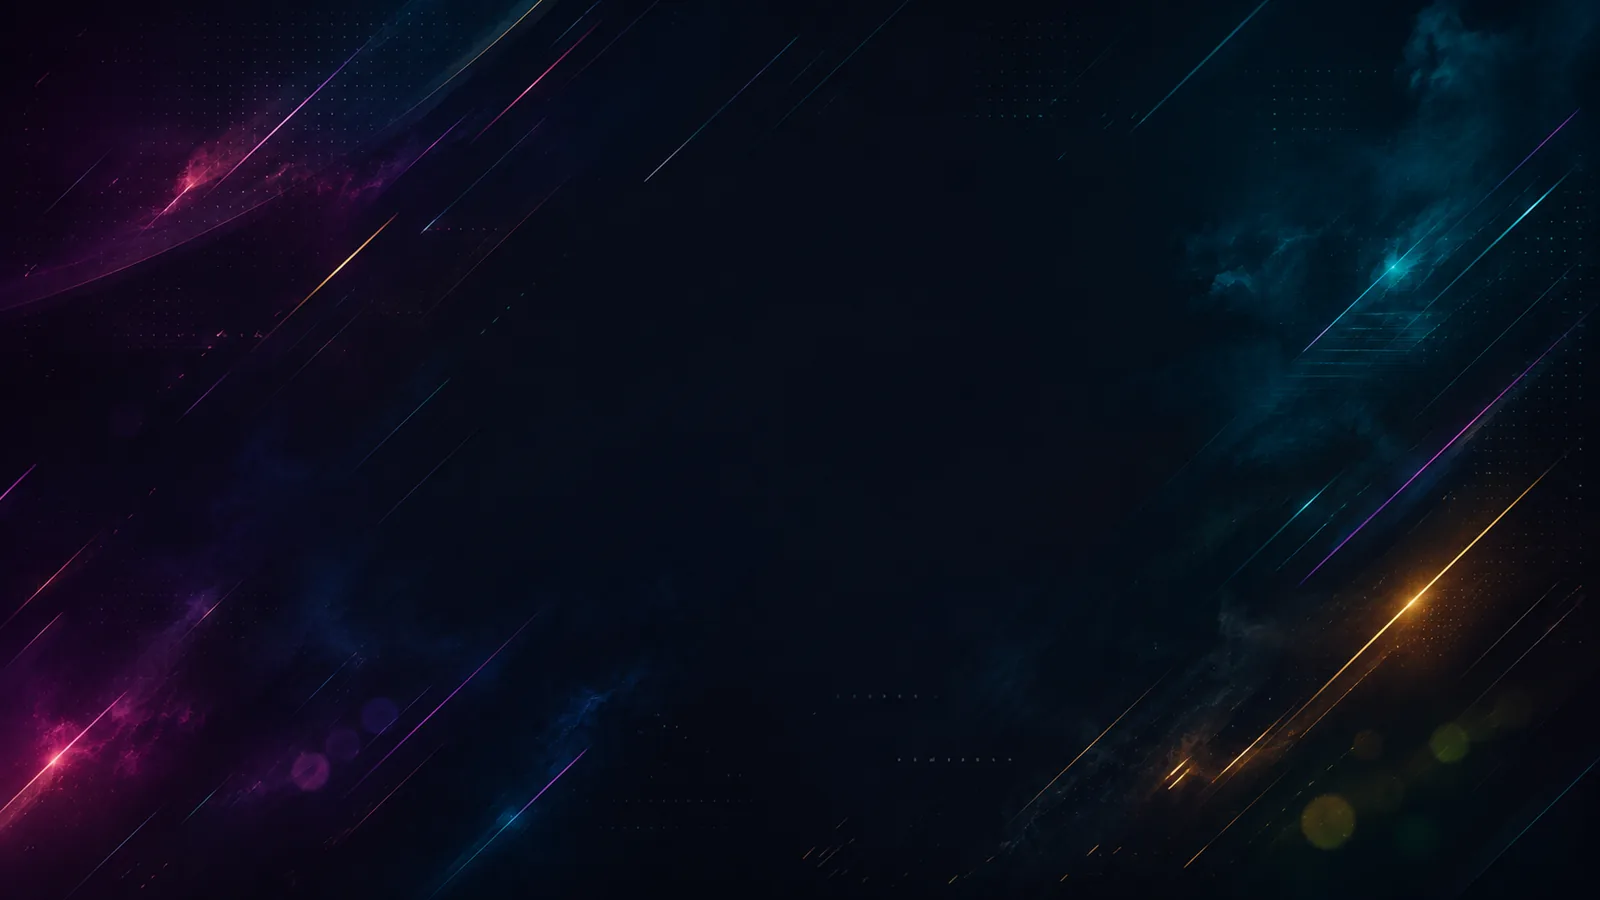
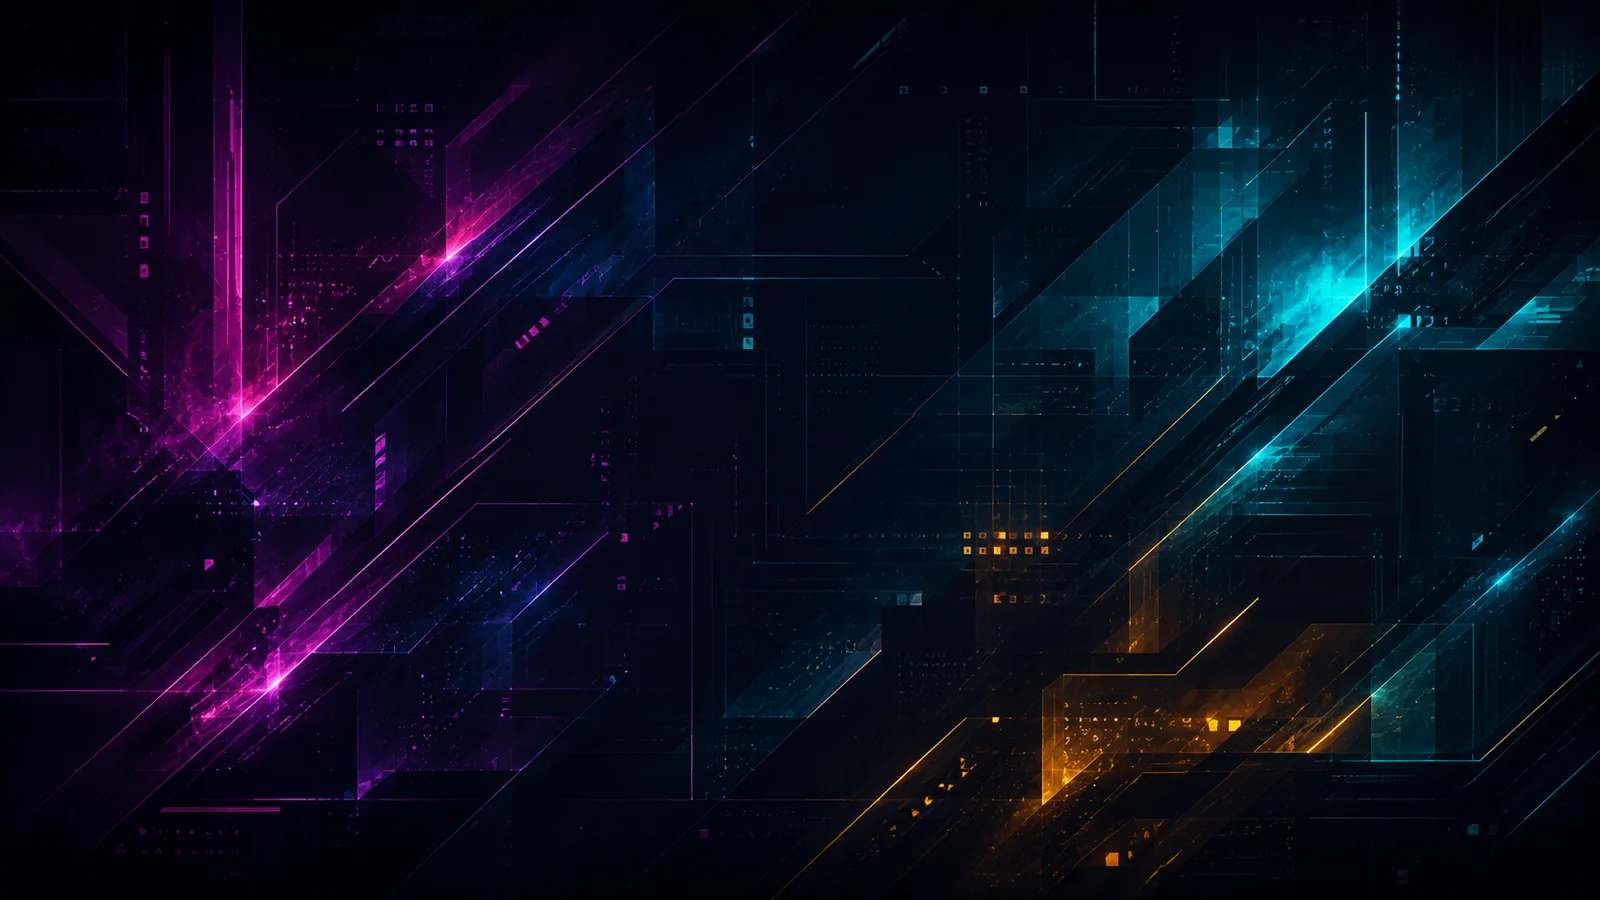
Swap in the circuit backdrop; lighten the veil to match it
Gene supplied a second background — magenta left, cyan right, amber circuitry
lower-right, with tech-grid structure across the frame. Replaces the previous
one at the same path, so no CSS change was needed for the swap itself.

The veil did need retuning, and I measured rather than guessed: the artwork's
centre band, where body copy sits, averages ~16/255 luminance. It is already
very dark where it matters, so the previous 0.55-0.72 veil would only have
crushed the colour out of the margins without buying any legibility. Lightened
to 0.34-0.60, still ramping darker toward the bottom where the amber circuitry
is brightest.

Resized 1672 -> 1600px and PNG -> WebP: 96 KB. Larger than the previous 40 KB
because this image carries far more high-frequency detail, which is also why it
is worth keeping behind the blur rather than sharpening.

Gates: tsc 0 | parity PASS (28) | lint 0 errors 0 warnings | build passes.
/backdrop.webp serves 200.

diff --git a/src/app/globals.css b/src/app/globals.css
@@ -77,8 +77,12 @@ body::before {
   z-index: 0;
   pointer-events: none;
   background:
-    /* Darkening veil first so the image never overpowers foreground text. */
-    linear-gradient(rgba(11, 11, 14, 0.55), rgba(11, 11, 14, 0.72)),
+    /* Veil over the image so foreground text is never at risk. Measured rather
+       than guessed: the artwork's centre band, where body copy sits, averages
+       ~16/255 luminance, so a heavy veil would only crush the colour out of the
+       margins. Kept light, and stronger toward the bottom where the amber
+       circuitry is brightest. */
+    linear-gradient(rgba(11, 11, 14, 0.34), rgba(11, 11, 14, 0.60)),
     url("/backdrop.webp") center / cover no-repeat fixed;
 }
 
